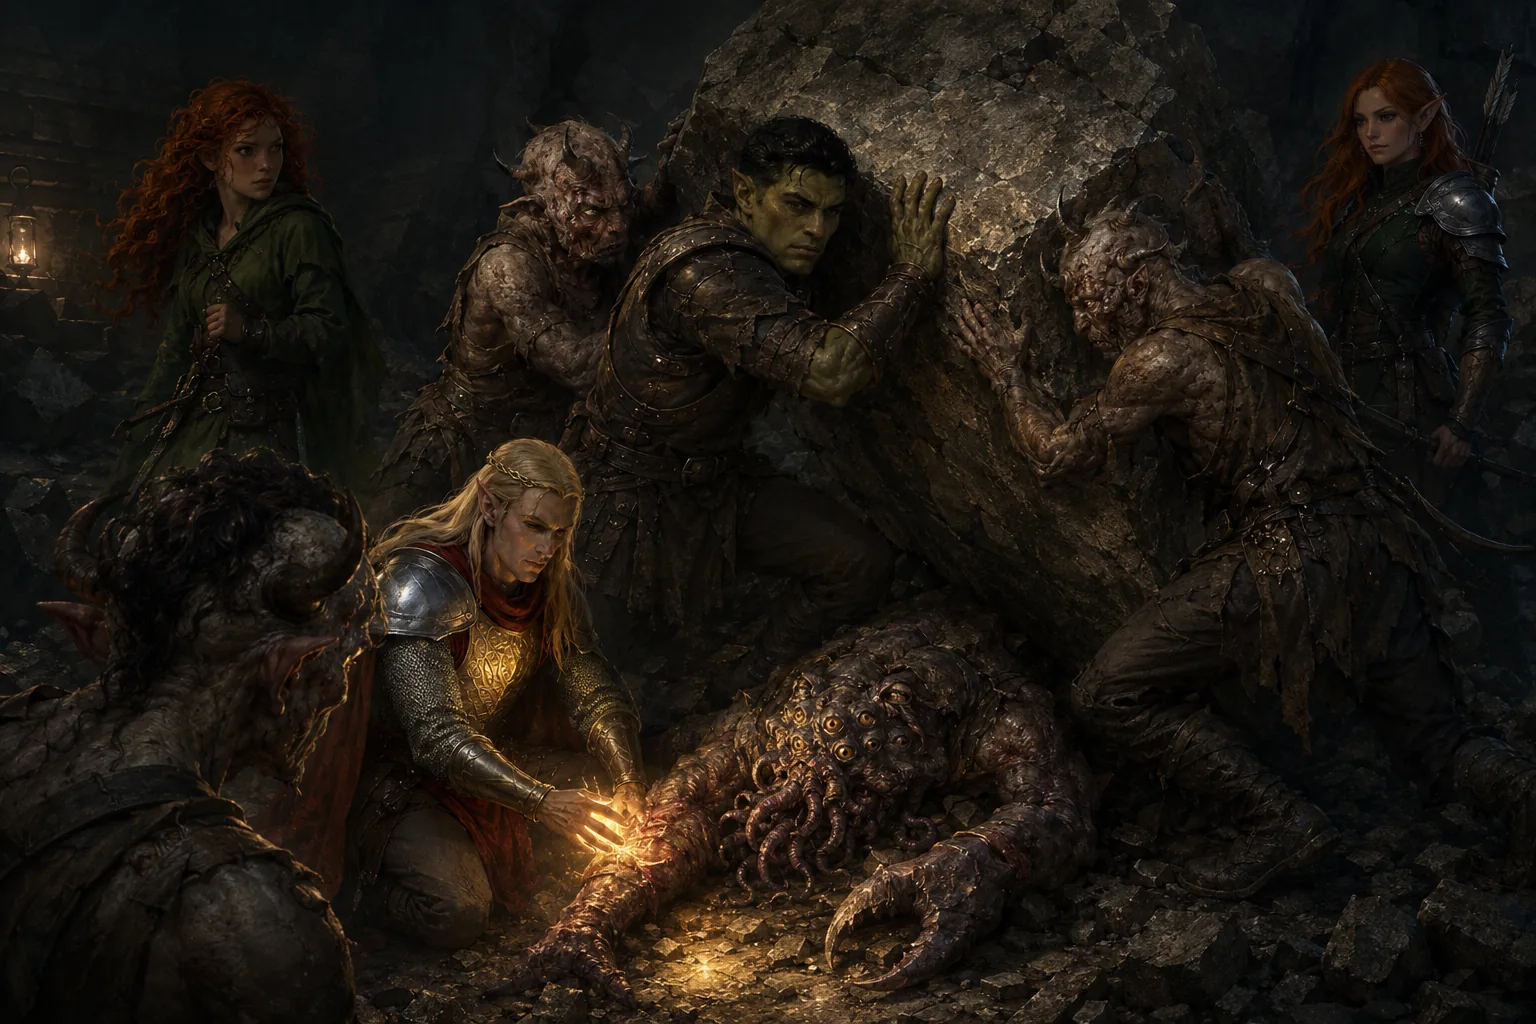
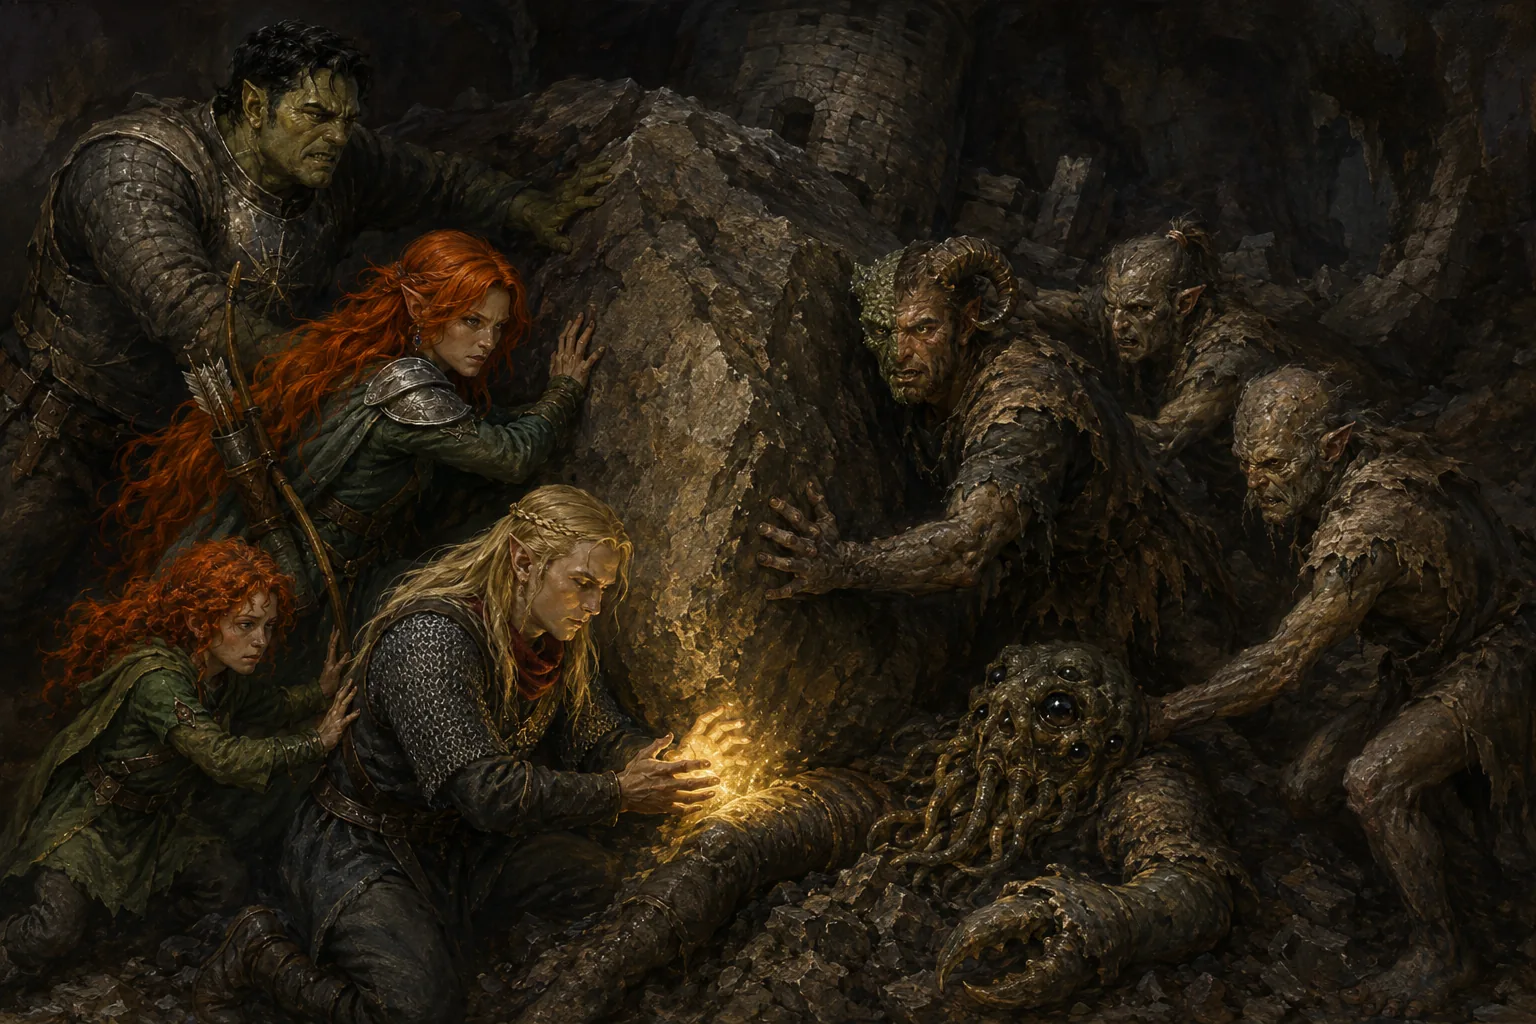
Re-roll the mongrels to Varic's humble Era I kit
The re-roll reason was Varic rendered already gilded, contradicting Era
I. He is now in the battered chain shirt over ash-smeared travel robes,
deep-red scarf and plain iron sunburst, with no gold and no mantle. That
closes one of the two Reconcile items in the kit guide; the host of
sorrowful stone is still open.

The frame is now a good Era I group exemplar, since everyone in it is
correct at once: Harlock's salvaged breastplate with its bare starburst,
Rabiah uncannily clean, Lupenor's green tunic and single pauldron.
Heights stated tallest to shortest so Rabiah does not loom.

Matt's addition: one mongrelman with half his face reptilian and a goat
horn on the other side. Rendered by describing the midline split with
each half spelled out separately, plus an explicit count and side for
the horn -- exactly one, on the human side, none on the reptilian side.
Stating the count and the side is what keeps an asymmetric feature from
being symmetrised. He was also pinned as one of the standing haulers
rather than the trapped one.

Second image made entirely self-serve from the ChatGPT library. New
finding banked in the skill: library selections do not survive a search
change, so multi-reference scenes must be added one at a time.

diff --git a/bible/07-art-reroll-list.md b/bible/07-art-reroll-list.md
@@ -26,17 +26,51 @@ with a counter-example.
 
 ## Raised but not decided (Matt's call)
 
-Both are flagged in `05-kit-and-timeline.md` under *Reconcile*: they were made before Varic's humble
-Era I kit was settled and show him **already gilded**, which contradicts the era.
+Flagged in `05-kit-and-timeline.md` under *Reconcile*: made before Varic's humble Era I kit was
+settled, and shows him **already gilded**, which contradicts the era.
 
-- `the-mongrels-of-the-deep.webp`
 - `the-host-of-sorrowful-stone.webp`
 
 Regenerate to the humble kit, or accept the drift and note it as accepted.
+*(Its companion `the-mongrels-of-the-deep.webp` was re-rolled Aug 2026 — see Done.)*
 
 ---
 
 ## Done
+
+### `the-mongrels-of-the-deep.webp` — re-rolled Aug 2026
+*Book I, "The Mongrels of the Deep". Caption: "Wretched and ugly, but worthy of kindness".*
+
+**The reason for the re-roll was Varic's gilded kit**, which contradicted Era I. He is now in the
+battered chain shirt over ash-smeared travel robes, deep-red scarf, plain iron sunburst, **no gold
+and no mantle** — with `a gold-filigree breastplate`, `golden or gilded armour`, `a red mantle` in
+`Avoid:`. This closes one of the two *Reconcile* items in `05-kit-and-timeline.md`; the other,
+`the-host-of-sorrowful-stone.webp`, is still open.
+
+**The frame is now a strong Era I group exemplar**, because everyone in it is correct at once:
+Harlock's **salvaged breastplate with its bare starburst** (per Matt's Aug 2026 device ruling),
+Rabiah's uncannily clean green against all that filth, Lupenor's high-collared green tunic and single
+steel pauldron. Heights were stated tallest-to-shortest and Rabiah pinned as the smallest, so she
+does not loom.
+
+**Matt's addition: one mongrelman with a split face.** *"One side of his face reptilian and a goat
+horn on the other side."* Rendered by describing it as a **midline split** with each half spelled out
+separately — scales, brow, slit-pupil eye and lipless mouth-corner on one half; ordinary weathered
+human skin, round pupil and stubble on the other — plus **an explicit count and side for the horn**
+(*"exactly one horn, and it is on the human side; there is NO horn on the reptilian side"*), with
+`two horns`, `a horn on the reptilian side`, `a pair of matching horns` in `Avoid:`. It came back
+right first try. **Stating the count and the side is what makes an asymmetric feature survive** — a
+description alone tends to get symmetrised. He was also pinned as *one of the standing haulers, NOT
+the one under the rock*, since the trapped mongrel is the obvious figure for the model to attach a
+distinctive face to.
+*(Accepted: a low scaled crest rises from the reptilian side of his skull. It has no ribbing and no
+curl and does not read as a second horn.)*
+
+⭐ **Second image made entirely self-serve** — all four portraits pulled from the ChatGPT library and
+sent without Matt touching the browser. **New finding, now in the skill: library selections do NOT
+survive a search change.** Searching for a second name silently clears the first selection, so
+multi-reference scenes must be added **one at a time** — open the dialog, search, select, *Add to
+chat*, repeat. The attachments accumulate correctly in the composer.
 
 ### `the-crypt-that-drank-the-light.webp` — re-rolled Aug 2026
 *Book II, "The Desecrated Ground". Raised directly by Matt, never on the To-do list.*

diff --git a/.claude/skills/chatgpt-image-gen/SKILL.md b/.claude/skills/chatgpt-image-gen/SKILL.md
@@ -77,6 +77,23 @@ and keeps the DOM light.
 > 5. Verify: `form [class*="group/file-tile"]` is 1 (or however many you added), and screenshot the
 >    composer to **confirm the thumbnail is the character you meant** — the library holds every
 >    reference ever dragged plus every render, and the names collide.
+>
+> ### ⚠ SEVERAL REFERENCES? ADD THEM ONE AT A TIME — SELECTION DOES NOT SURVIVE A SEARCH CHANGE.
+> Typing a new query into the dialog's search box **silently clears whatever you had already
+> selected**, so searching four names in a row and then clicking *Add to chat* attaches only the
+> last one — and the footer quietly reads "1 selected" the whole time. Run the **whole cycle per
+> reference**: open `+` → *Add from library* → search → click the row → **Add to chat**; then
+> reopen the menu and do the next one. Attachments accumulate correctly in the composer, so finish
+> by checking the tile count equals the number of characters in the scene.
+> *(Aug 2026, the four-reference `the-mongrels-of-the-deep` re-roll.)*
+>
+> **Two coordinate notes for that loop:** the `+` button **moves down as the composer grows** with
+> each attached tile — re-screenshot rather than reusing the old coordinate — and the search box
+> keeps focus after a selection, so `triple_click` it before typing the next name.
+>
+> **The library holds many copies under drifting names** (`REF-1-harlock(10)`,
+> `REF-1-harlock(20260812-145805)`, `REF-1-lupenor-COPPER-hair-VIOLET-eyes-POINTED-ears`). They are
+> generally the same portrait; take the newest, then confirm by thumbnail.
 > 6. Then paste the prompt and **send it yourself** (step C's DOM-method send). Matt never touches it.
 >
 > ⚠ **These clicks need REAL GESTURES.** `element.click()` on the `+` button does nothing — React

diff --git a/bible/05-kit-and-timeline.md b/bible/05-kit-and-timeline.md
@@ -321,13 +321,17 @@ kit forward. Things that belong to **later** eras, **not** Era I:
 
 ## Reconcile — existing art that predates this guide
 
-Two early Book I images were made **before** Varic's humble Era I kit was settled, and show
-him **already gilded**, inconsistent with Era I above:
+Two early Book I images were made **before** Varic's humble Era I kit was settled, and showed
+him **already gilded**, inconsistent with Era I above. **One is fixed; one is still open.**
 
-- [`../images/the-mongrels-of-the-deep.webp`](../images/the-mongrels-of-the-deep.webp)
-- [`../images/the-host-of-sorrowful-stone.webp`](../images/the-host-of-sorrowful-stone.webp)
-
-**Decision pending (Matt):** regenerate these two to the humble kit, or accept the drift.
+- ✅ [`../images/the-mongrels-of-the-deep.webp`](../images/the-mongrels-of-the-deep.webp) —
+  **re-rolled Aug 2026 to the humble kit.** Varic now wears the battered chain shirt over travel
+  robes with the deep-red scarf and the plain iron sunburst, no gold and no mantle. **This image is
+  now a good Era I exemplar for the whole company at once**: Harlock's salvaged breastplate with its
+  bare starburst, Rabiah's uncannily clean green, and Lupenor's green tunic and pauldron are all in
+  the same frame.
+- ⏳ [`../images/the-host-of-sorrowful-stone.webp`](../images/the-host-of-sorrowful-stone.webp) —
+  **still gilded. Decision pending (Matt):** regenerate to the humble kit, or accept the drift.
 
 **Harlock's holy symbol predates this rule.** The sword-and-sun device was settled only at the
 Book I Epilogue. Every Harlock image made before it — the chest device in
